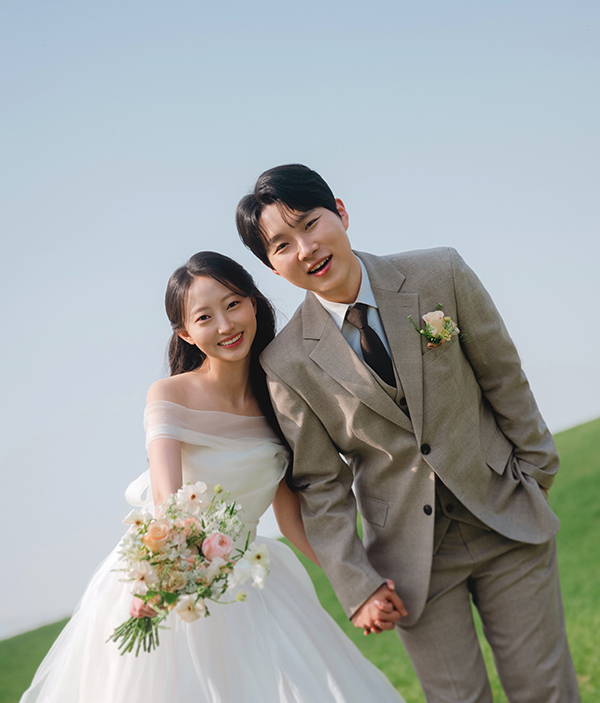
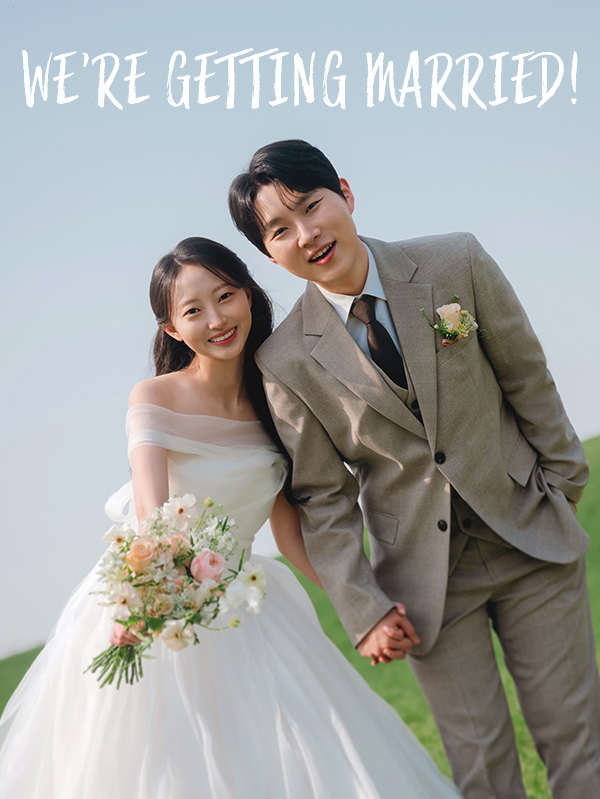
modify

diff --git a/src/components/Main.tsx b/src/components/Main.tsx
@@ -148,11 +148,11 @@ function Main({ setComponent }: Props) {
     <Wrappper>
       <ContentWrapper>
         <ProgressiveImg placeholderSrc={MainPic} src={High} />
-        <TitleImageTitle>
+        {/* <TitleImageTitle>
           We're Getting
           <br />
           Married!
-        </TitleImageTitle>
+        </TitleImageTitle> */}
         <DescriptionWrapper style={{ padding: '32px 20px' }}>
           <TopName>
             김성식
